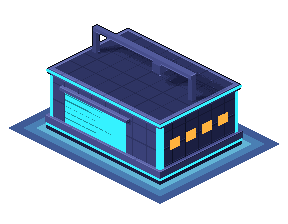
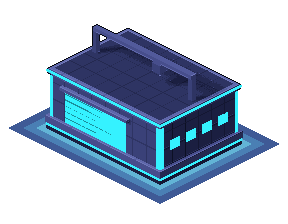
GRID-17: windows in their building's own light, and none under a line
The owner's review: a line of light ran straight through a window of the works, and the
warm windows did not match the trim. A lit window is now the colour of its building's
lines, and the works' windows stand either side of the line up the middle of the wall.

Changed region(s): [[0.5625, 0.5, 0.8125, 0.6875]]

diff --git a/tools/art/buildings.py b/tools/art/buildings.py
@@ -126,8 +126,8 @@ def works():
     disc(-.6, .6, top + .12, .13, .72, "g5", "g3"); disc(-.6, .6, top + .84, .16, .05, "c0", "g4")
     light(-.6, .6, top + .89, .1, .1, .04, "cyan")
     entrance(.5, -w / 2, lit)
-    for i in range(3):
-        light(w / 2 + .012, -.5 + i * .5, .7, .02, .28, .22, "amber")                 # someone is in: warm windows
+    for y in (-.75, -.3, .3, .75):                                                    # windows in the building's own light,
+        light(w / 2 + .012, y, .7, .02, .28, .22, lit)                                # clear of the line up the middle of the wall
     render("b-works", 256, 224, 80)
 
 
@@ -158,7 +158,7 @@ def assembly_bay():
         light(-.3, f - .016, z + .12 + i * .15, 1.9, .012, .03, "teal")
     box(-.3, f - .05, z + .82, 2.1, .1, .08, *TRIM)
     for i in range(4):
-        light(w / 2 + .012, -.75 + i * .5, .7, .02, .3, .24, "amber")
+        light(w / 2 + .012, -.75 + i * .5, .7, .02, .3, .24, lit)
     top = roof(0, 0, w, d, h, lit)
     for x in (-1.5, 1.5):                                                             # the gantry
         box(x, 0, top, .12, .12, .55, "g5", "g4", "g3")

diff --git a/docs/art-direction.md b/docs/art-direction.md
@@ -29,7 +29,7 @@ The Grid is a virtual city where each repository occupies a sector and each codi
 3. **On buildings, light runs in long lines** up the corners and sides, unbroken from foot to roof and on round the roof edge. Windows are secondary to those lines.
 4. **The ground is lit the same way:** dark paving in large squares, with long lines of light along kerbs, lane edges and the outlines of platforms, and their glow lying on the paving beside them. Glow is flat bands in palette colours, never a gradient.
 5. **State is shown on the bot, not by a building.** Buildings stand only for kinds of work, plus the relay. Waiting, faulted, done and offline are a badge and a pose on the bot, wherever it stands.
-6. **Nothing that stands is flat.** Every large surface is panelled, roofs and floors as well as walls. Things cast shadows, and the shadows are soft: one tone down at their edge, two at most. A light casts no shadow and is never shaded. The walls of a room we look into cast none; what stands inside does. Each thing has a dark outline, and a light line where a face sits over a darker one. Walls are concrete, lighter than the graphite they stand on, and a low building may have warm windows. The ground itself stays flat.
+6. **Nothing that stands is flat.** Every large surface is panelled, roofs and floors as well as walls. Things cast shadows, and the shadows are soft: one tone down at their edge, two at most. A light casts no shadow and is never shaded. The walls of a room we look into cast none; what stands inside does. Each thing has a dark outline, and a light line where a face sits over a darker one. Walls are concrete, lighter than the graphite they stand on. A lit window is the colour of its building's lines of light, and no line of light runs through a window. The ground itself stays flat.
 7. **A bot carries a ring of light on its back.** The bot that inspects holds that disc in its hand, and its back is bare.
 8. **A bot's light comes in blue, white and orange.** In the picture it is three marker colours (the light, its highlight, its dim partner), and the game swaps them. Orange is redder than the amber of a badge, so a badge is still the only amber thing on a bot.
 

diff --git a/tools/art/README.md b/tools/art/README.md
@@ -66,7 +66,7 @@ Unity's import settings are set by `Assets/TheGrid/Editor/ArtImport.cs`, which t
    ```
 
 2. Call it from `make()`.
-3. Render and look at the contact sheet. A building's lines of light are one colour: pick `"cyanw"`, `"cyan"` or `"violet"`. A low building may also have warm (`"amber"`) windows.
+3. Render and look at the contact sheet. A building carries one light: pick `"cyanw"`, `"cyan"` or `"violet"` and use nothing else on it, lit windows included. Keep windows clear of the lines `shaft` draws up a wall.
 
 Keep the building, and the glow round it, inside its picture. The tests fail if a pixel touches the edge.
 
